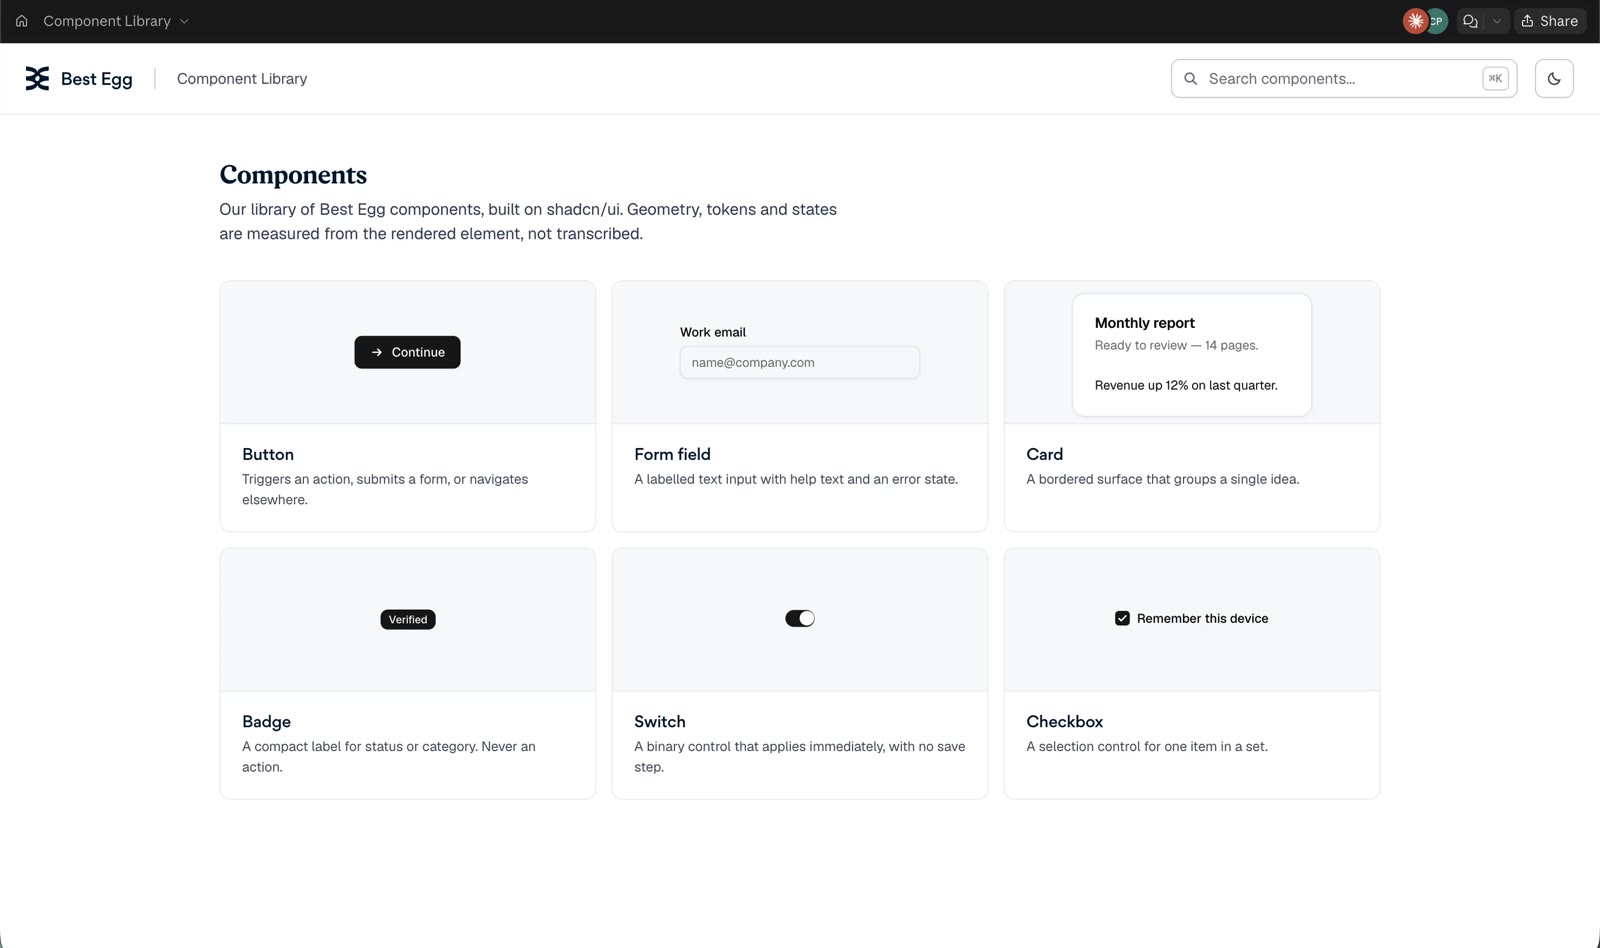
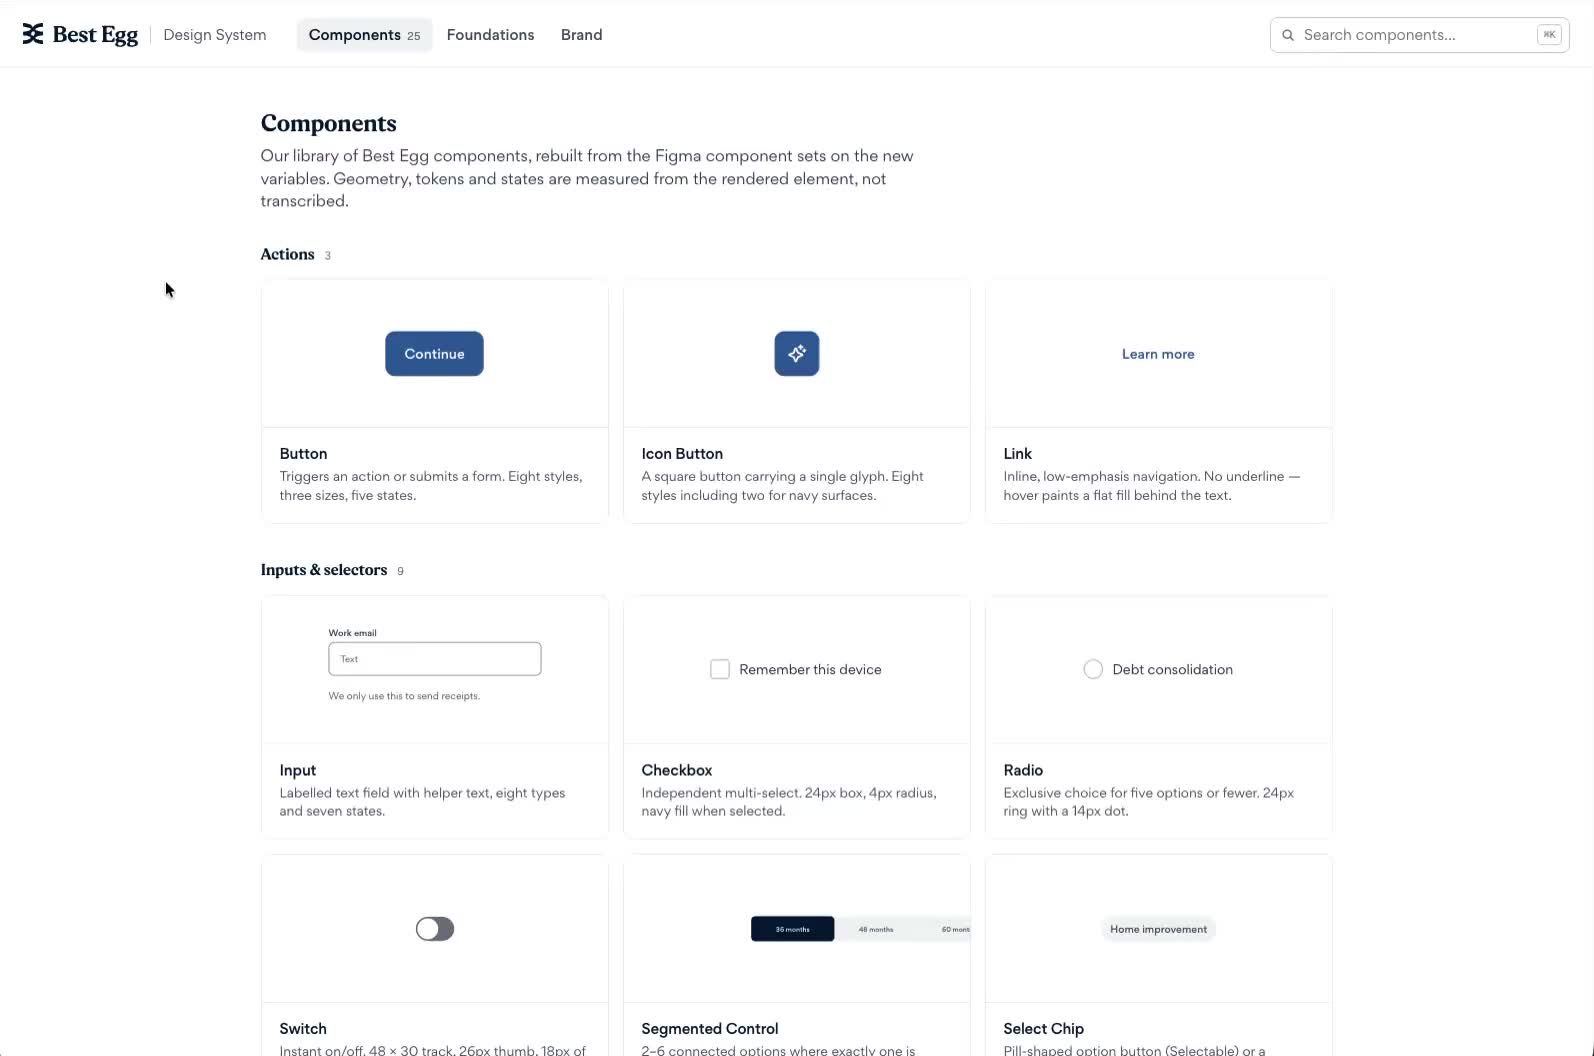
Replace the audit agent walkthrough with the new site recording
The Library section now plays John's 24-second recording of the internal
design system site: the Components index, then the Button page with its
props changed live. Encoded to an animated webp at 12 fps with PyAV
(1.1 MB, down from 2.9). Poster, size and alt follow the new frame; the
note under it says what the recording shows.

stamp.py now stamps data-anim URLs too, since /assets/ is cached for a
week and a same-named walkthrough would otherwise keep serving stale.

diff --git a/work/design-system-audit-agent.html b/work/design-system-audit-agent.html
@@ -202,10 +202,10 @@
     </header>
     <div>
       <div class="walk">
-        <img decoding="async" width="1600" height="948" src="../assets/btn-walkthrough-poster.jpg?v=44123547" data-anim="../assets/btn-walkthrough.webp" alt="The Best Egg component library built on shadcn/ui: Button, Form field, Card, Badge, Switch and Checkbox, each with a one-line description" loading="lazy">
+        <img decoding="async" width="1594" height="1056" src="../assets/btn-walkthrough-poster.jpg?v=38e0db17" data-anim="../assets/btn-walkthrough.webp?v=65e0e738" alt="The Components page of the Best Egg design system site: 25 components in groups, Actions (Button, Icon Button, Link) and Inputs &amp; selectors (Input, Checkbox, Radio, Switch, Segmented Control, Select Chip), each with a one-line description" loading="lazy">
         <button class="btn btn-sm play" type="button" aria-pressed="false"><svg viewBox="0 0 12 14" fill="currentColor" aria-hidden="true"><path d="M11.2 6.13 1.6.24A1 1 0 0 0 .1 1.1v11.8a1 1 0 0 0 1.5.86l9.6-5.9a1 1 0 0 0 0-1.72Z"/></svg> <span>Play walkthrough</span></button>
       </div>
-      <p class="walk-note t-small">Screen recording of the internal design system site: Form field with its props, code and tokens.</p>
+      <p class="walk-note t-small">Screen recording of the internal design system site: the Button page, its props changed live, with anatomy, guidelines, code and tokens alongside.</p>
     </div>
   </div>
 </section>

diff --git a/work/no-code-tools.html b/work/no-code-tools.html
@@ -143,7 +143,7 @@
       </div>
       <div>
         <div class="walk">
-          <img decoding="async" width="923" height="548" src="../assets/nocode-walkthrough-poster.jpg?v=c28811db" data-anim="../assets/nocode-walkthrough.webp" alt="Walkthrough of building a new authentication flow in the visual editor" loading="lazy">
+          <img decoding="async" width="923" height="548" src="../assets/nocode-walkthrough-poster.jpg?v=c28811db" data-anim="../assets/nocode-walkthrough.webp?v=0d5369c7" alt="Walkthrough of building a new authentication flow in the visual editor" loading="lazy">
           <button class="btn btn-sm play" type="button" aria-pressed="false"><svg viewBox="0 0 12 14" fill="currentColor" aria-hidden="true"><path d="M11.2 6.13 1.6.24A1 1 0 0 0 .1 1.1v11.8a1 1 0 0 0 1.5.86l9.6-5.9a1 1 0 0 0 0-1.72Z"/></svg> <span>Play walkthrough</span></button>
         </div>
         <p class="walk-note t-small">Screen recording of the flow builder: start node, actions, test and publish.</p>

diff --git a/work/sign-in-with-ethereum.html b/work/sign-in-with-ethereum.html
@@ -146,7 +146,7 @@
       </div>
       <div>
         <div class="walk">
-          <img decoding="async" width="900" height="720" src="../assets/siwe-walkthrough-poster.jpg?v=0e74c331" data-anim="../assets/siwe-walkthrough.webp" alt="Walkthrough of logging in with an Ethereum wallet" loading="lazy">
+          <img decoding="async" width="900" height="720" src="../assets/siwe-walkthrough-poster.jpg?v=0e74c331" data-anim="../assets/siwe-walkthrough.webp?v=d833be0e" alt="Walkthrough of logging in with an Ethereum wallet" loading="lazy">
           <button class="btn btn-sm play" type="button" aria-pressed="false"><svg viewBox="0 0 12 14" fill="currentColor" aria-hidden="true"><path d="M11.2 6.13 1.6.24A1 1 0 0 0 .1 1.1v11.8a1 1 0 0 0 1.5.86l9.6-5.9a1 1 0 0 0 0-1.72Z"/></svg> <span>Play walkthrough</span></button>
         </div>
         <p class="walk-note t-small">Screen recording of the Login with Ethereum flow (about 5 MB, loads on play).</p>

diff --git a/work/staking.html b/work/staking.html
@@ -150,7 +150,7 @@
       </div>
       <div>
         <div class="walk">
-          <img decoding="async" width="932" height="720" src="../assets/staking-walkthrough-poster.jpg?v=c06c0b47" data-anim="../assets/staking-walkthrough.webp" alt="Walkthrough of the Chainlink Staking early-access flow" loading="lazy">
+          <img decoding="async" width="932" height="720" src="../assets/staking-walkthrough-poster.jpg?v=c06c0b47" data-anim="../assets/staking-walkthrough.webp?v=157fed89" alt="Walkthrough of the Chainlink Staking early-access flow" loading="lazy">
           <button class="btn btn-sm play" type="button" aria-pressed="false"><svg viewBox="0 0 12 14" fill="currentColor" aria-hidden="true"><path d="M11.2 6.13 1.6.24A1 1 0 0 0 .1 1.1v11.8a1 1 0 0 0 1.5.86l9.6-5.9a1 1 0 0 0 0-1.72Z"/></svg> <span>Play walkthrough</span></button>
         </div>
         <p class="walk-note t-small">Screen recording of the v0.1 early-access flow.</p>

diff --git a/stamp.py b/stamp.py
@@ -32,6 +32,9 @@ for f in pages + ['middleware.js']:
         p = src.replace('../', '')
         return 'src="%s?v=%s"' % (src, h(p)) if os.path.exists(p) else m.group(0)
     s = re.sub(r'src="((?:\.\./)?assets/[^"?]+)(?:\?v=[a-f0-9]+)?"', asset, s)
+    # Walkthrough animations load from data-anim on Play; /assets/ is cached for a week, so stamp them too.
+    s = re.sub(r'data-anim="((?:\.\./)?assets/[^"?]+)(?:\?v=[a-f0-9]+)?"',
+               lambda m: asset(m).replace('src=', 'data-anim=', 1), s)
     # Icons are root-absolute on every page; browsers cache favicons hard, so stamp them too.
     s = re.sub(r'href="/(favicon\.svg|favicon\.ico|apple-touch-icon\.png)(?:\?v=[a-f0-9]+)?"',
                lambda m: 'href="/%s?v=%s"' % (m.group(1), h(m.group(1))), s)

diff --git a/README.md b/README.md
@@ -512,9 +512,12 @@ The rules that shape the code:
   itself, masked to a band along the edges, so the screen dissolves into it
   instead of stopping at the clip line, and nothing inside the band is meant
   to be read. Contained images (`.cutout`, `.wide`) keep their crisp edges.
-- The three walkthrough recordings are 2.8–7.8 MB and only load when a visitor
-  presses Play. They come from the deck's GIFs, so their resolution is capped;
-  replace them if you still have the original screen recordings.
+- The three walkthrough recordings are 1.1–7.8 MB and only load when a visitor
+  presses Play. Staking and Cross-Sell come from the deck's GIFs, so their
+  resolution is capped; replace them if you still have the original screen
+  recordings. The audit agent one is a screen recording encoded to an animated
+  webp at 12 fps (there is no ffmpeg on this Mac; `ffmpeg-static` from npm or
+  PyAV's `libwebp_anim` both work).
 - Image, stylesheet, script, icon, social-image and resume URLs carry a `?v=`
   content hash. After replacing any of them run `python3 stamp.py`, which
   restamps every page, the resume link in `main.js` and the password gate in
